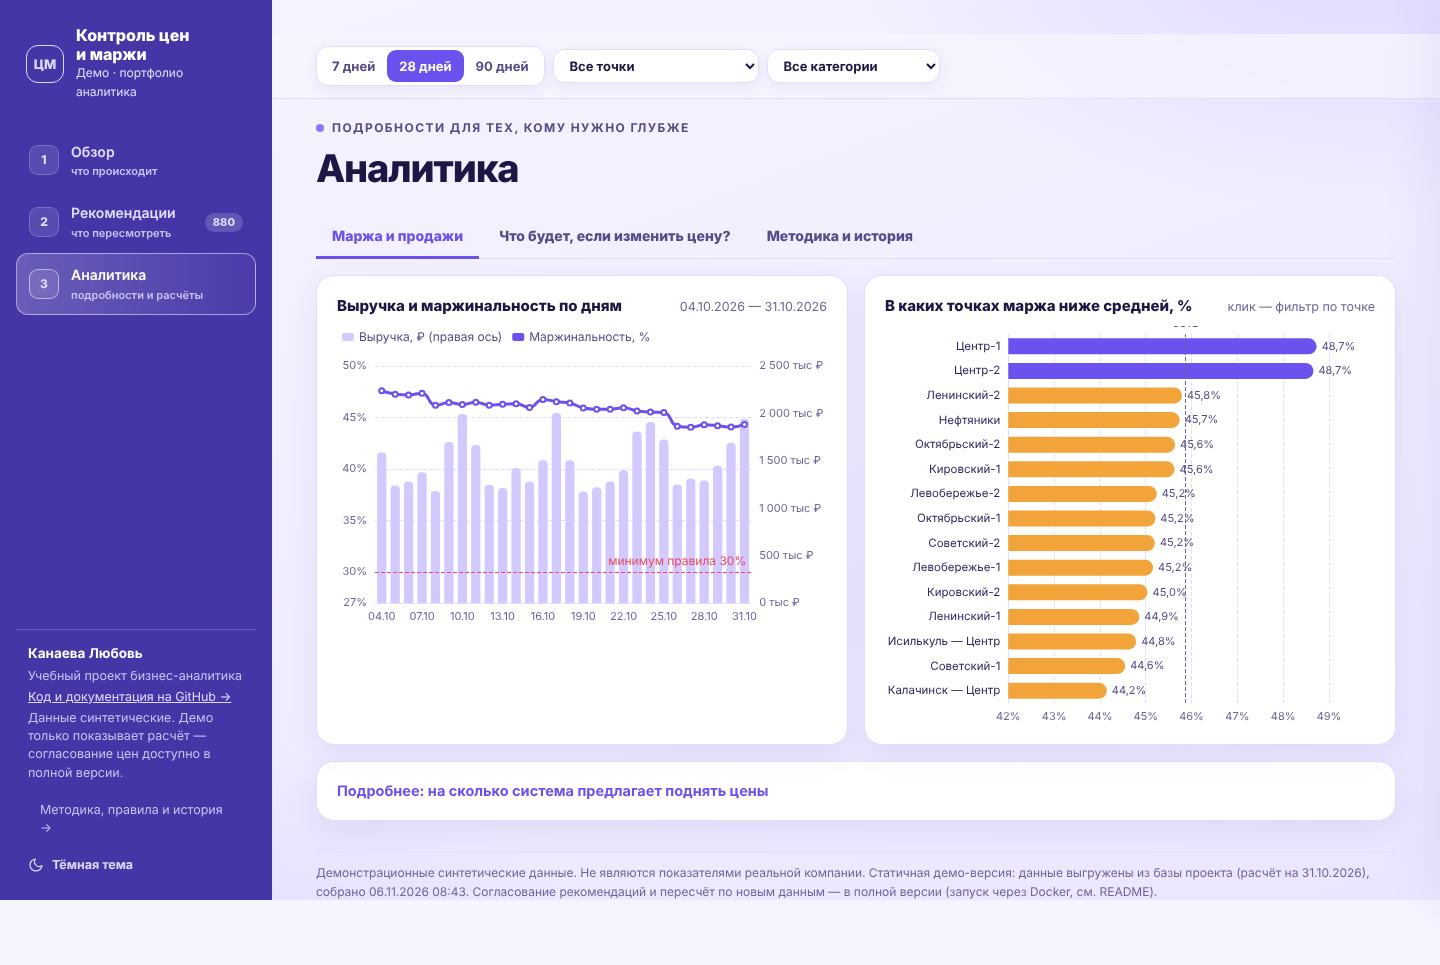
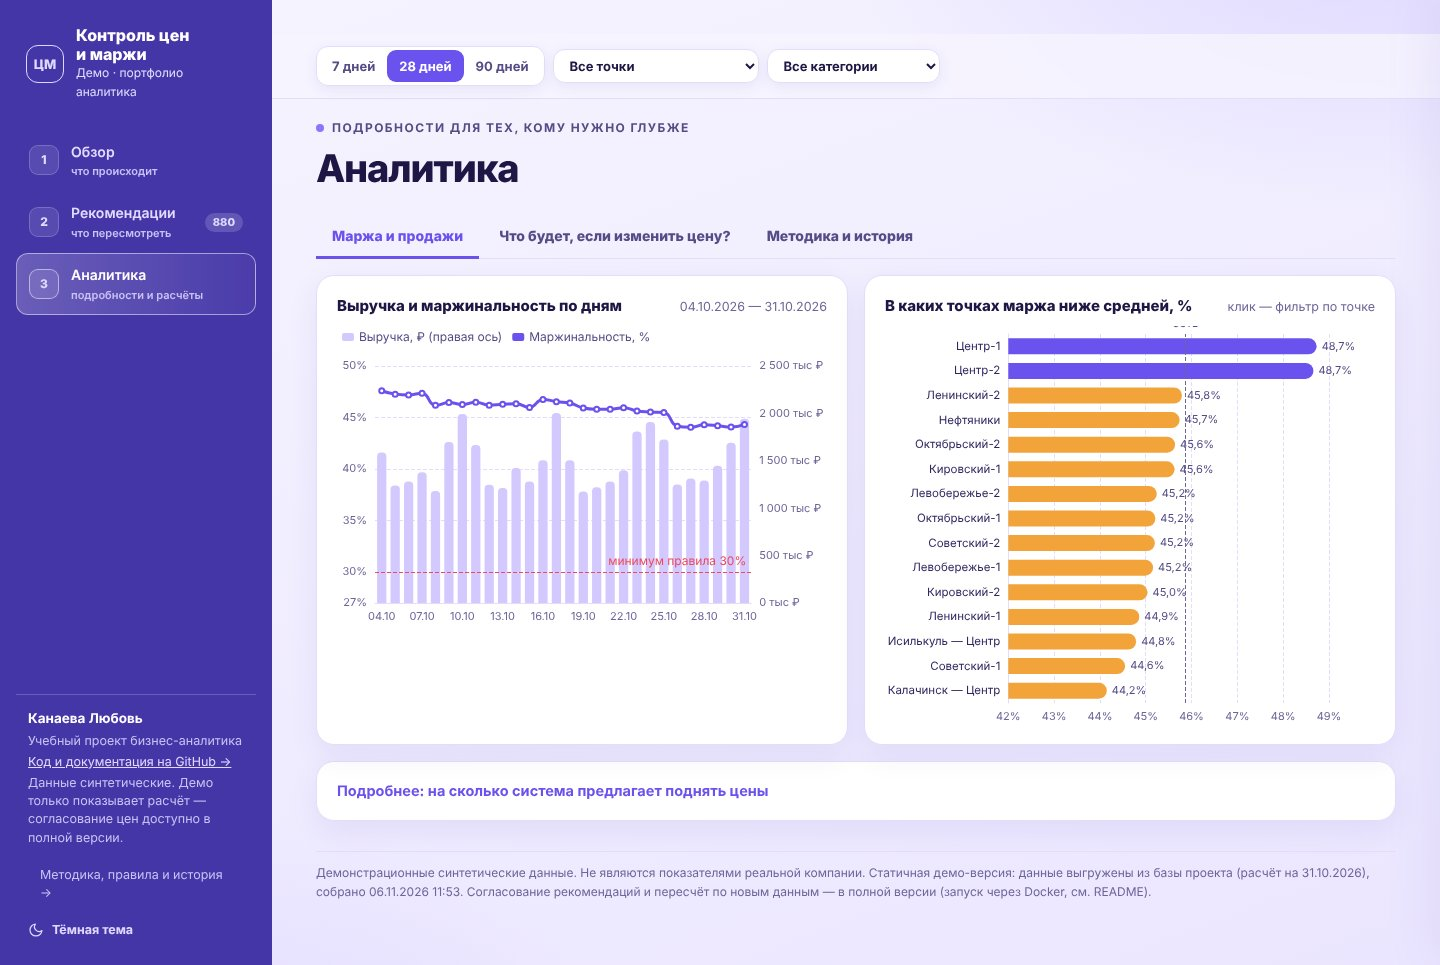
README: скриншоты и описание под новую структуру из трёх разделов
Старые скриншоты docs/screenshots (прежний интерфейс) удалены, README ссылается
на актуальные docs/ux/v2; скриншоты демо пересняты с боковой панелью на всю высоту.

Claude-Session: https://claude.ai/code/session_01JpGLTPTUNtLxHjeCPvEPmD

Changed region(s): [[0.0, 0.6528, 0.1875, 1.0], [0.3125, 0.9016, 0.8125, 0.9326]]

diff --git a/README.md b/README.md
@@ -4,11 +4,11 @@
 
 Прототип системы поддержки решений по ценообразованию для сети точек формата «суши-маркет»: считает выручку и валовую маржу, предлагает рекомендуемые цены по прозрачным правилам, объясняет каждую рекомендацию и находит нарушения бизнес-правил и ошибки в данных.
 
-**[Открыть интерактивную демо-версию →](https://lubancho.github.io/price-margin-control/)** — дашборд в браузере, без установки: что происходит с маржой и что требует внимания, таблица цен с карточкой изменения цены, предупреждения по приоритету, расчёт «что если» с ползунками. Данные выгружены из базы проекта; при стандартных правилах браузерный пересчёт цен сверяется с расчётом Python (все 2 250 рекомендаций совпадают). Согласование рекомендаций и запись в базу — только в полной версии (раздел «Запуск»).
+**[Открыть интерактивную демо-версию →](https://lubancho.github.io/price-margin-control/)** — дашборд в браузере, без установки, в трёх разделах: **Обзор** (что происходит с маржой и 3 главные проблемы), **Рекомендации** (цены к пересмотру с карточкой изменения цены, проблемы и ошибки), **Аналитика** (маржа и продажи, расчёт «что если» с ползунками, методика и история). Данные выгружены из базы проекта; при стандартных правилах браузерный пересчёт цен сверяется с расчётом Python (все 2 250 рекомендаций совпадают). Согласование рекомендаций и запись в базу — только в полной версии (раздел «Запуск»).
 
 > **Все данные синтетические.** Они созданы генератором с фиксированным seed и не являются показателями какой-либо реальной компании. Названия точек и товаров вымышлены. Проект учебно-практический и не связан с инфраструктурой какой-либо компании.
 
-![Обзор](docs/screenshots/overview.png)
+![Обзор](docs/ux/v2/overview.jpg)
 
 ## 1. Бизнес-проблема
 
@@ -39,19 +39,21 @@
 
 Переключатель роли (аналитик, руководитель сети, операционный менеджер) только меняет набор кнопок. **Это не защищённое разграничение доступа.**
 
-| Цены и рекомендации | Карточка изменения цены |
+| Рекомендации → Цены к пересмотру | Рекомендации → Проблемы и ошибки |
 |---|---|
-| ![Цены и рекомендации](docs/screenshots/prices.png) | ![Карточка](docs/screenshots/card.png) |
-| **Что будет, если изменить цены?** | **Предупреждения** |
-| ![Сценарии](docs/screenshots/scenarios.png) | ![Предупреждения](docs/screenshots/alerts.png) |
+| ![Цены к пересмотру](docs/ux/v2/recs_prices.jpg) | ![Проблемы и ошибки](docs/ux/v2/recs_problems.jpg) |
+| **Аналитика → Маржа и продажи** | **Аналитика → Что будет, если изменить цену?** |
+| ![Маржа и продажи](docs/ux/v2/analytics_margin.jpg) | ![Сценарии](docs/ux/v2/analytics_scenarios.jpg) |
 
-Интерфейс прошёл UX-ревью и редизайн: аудит, дизайн-система, скриншоты до и после — [docs/08_ux_redesign.md](docs/08_ux_redesign.md).
+Полная версия на Streamlit устроена так же: [обзор](docs/ux/v2/streamlit_home.jpg), [цены](docs/ux/v2/streamlit_prices.jpg), [проблемы](docs/ux/v2/streamlit_alerts.jpg), [маржа](docs/ux/v2/streamlit_margin.jpg), [сценарии](docs/ux/v2/streamlit_scenarios.jpg), [методика и история](docs/ux/v2/streamlit_history.jpg); демо на телефоне — [390 px](docs/ux/v2/mobile.jpg).
+
+Интерфейс прошёл UX-ревью, редизайн и корректировку информационной перегрузки (раздел 9): аудит, дизайн-система, что скрыто и перенесено, скриншоты до и после — [docs/08_ux_redesign.md](docs/08_ux_redesign.md).
 
 ## 4. Архитектура
 
 ```mermaid
 flowchart LR
-    U([Аналитик · Руководитель · Менеджер]) --> UI[Streamlit<br/>6 экранов]
+    U([Аналитик · Руководитель · Менеджер]) --> UI[Streamlit<br/>3 раздела, 7 страниц]
     UI --> RS[run_service<br/>запуск, решения]
     UI --> M[metrics · scenarios · export]
     RS --> P[pricing<br/>алгоритм цены, Decimal]
@@ -177,7 +179,7 @@ DO UPDATE SET last_seen_at = now(), occurrences = calc.alert.occurrences + 1;
 
 ## 11. Тестирование
 
-104 автоматических теста: модульные (формулы, алгоритм цены, проверки качества, сценарии, алерты, экспорт, генератор), интеграционные с PostgreSQL (ограничения БД, идемпотентность, история, согласованность SQL и Python до копейки, поиск каждой заложенной ошибки) и проверки всех 6 экранов для каждой из 3 ролей через Streamlit AppTest.
+104 автоматических теста: модульные (формулы, алгоритм цены, проверки качества, сценарии, алерты, экспорт, генератор), интеграционные с PostgreSQL (ограничения БД, идемпотентность, история, согласованность SQL и Python до копейки, поиск каждой заложенной ошибки) и проверки всех 7 страниц для каждой из 3 ролей через Streamlit AppTest.
 
 ```bash
 uv run pytest -m "not integration and not ui"          # без базы
